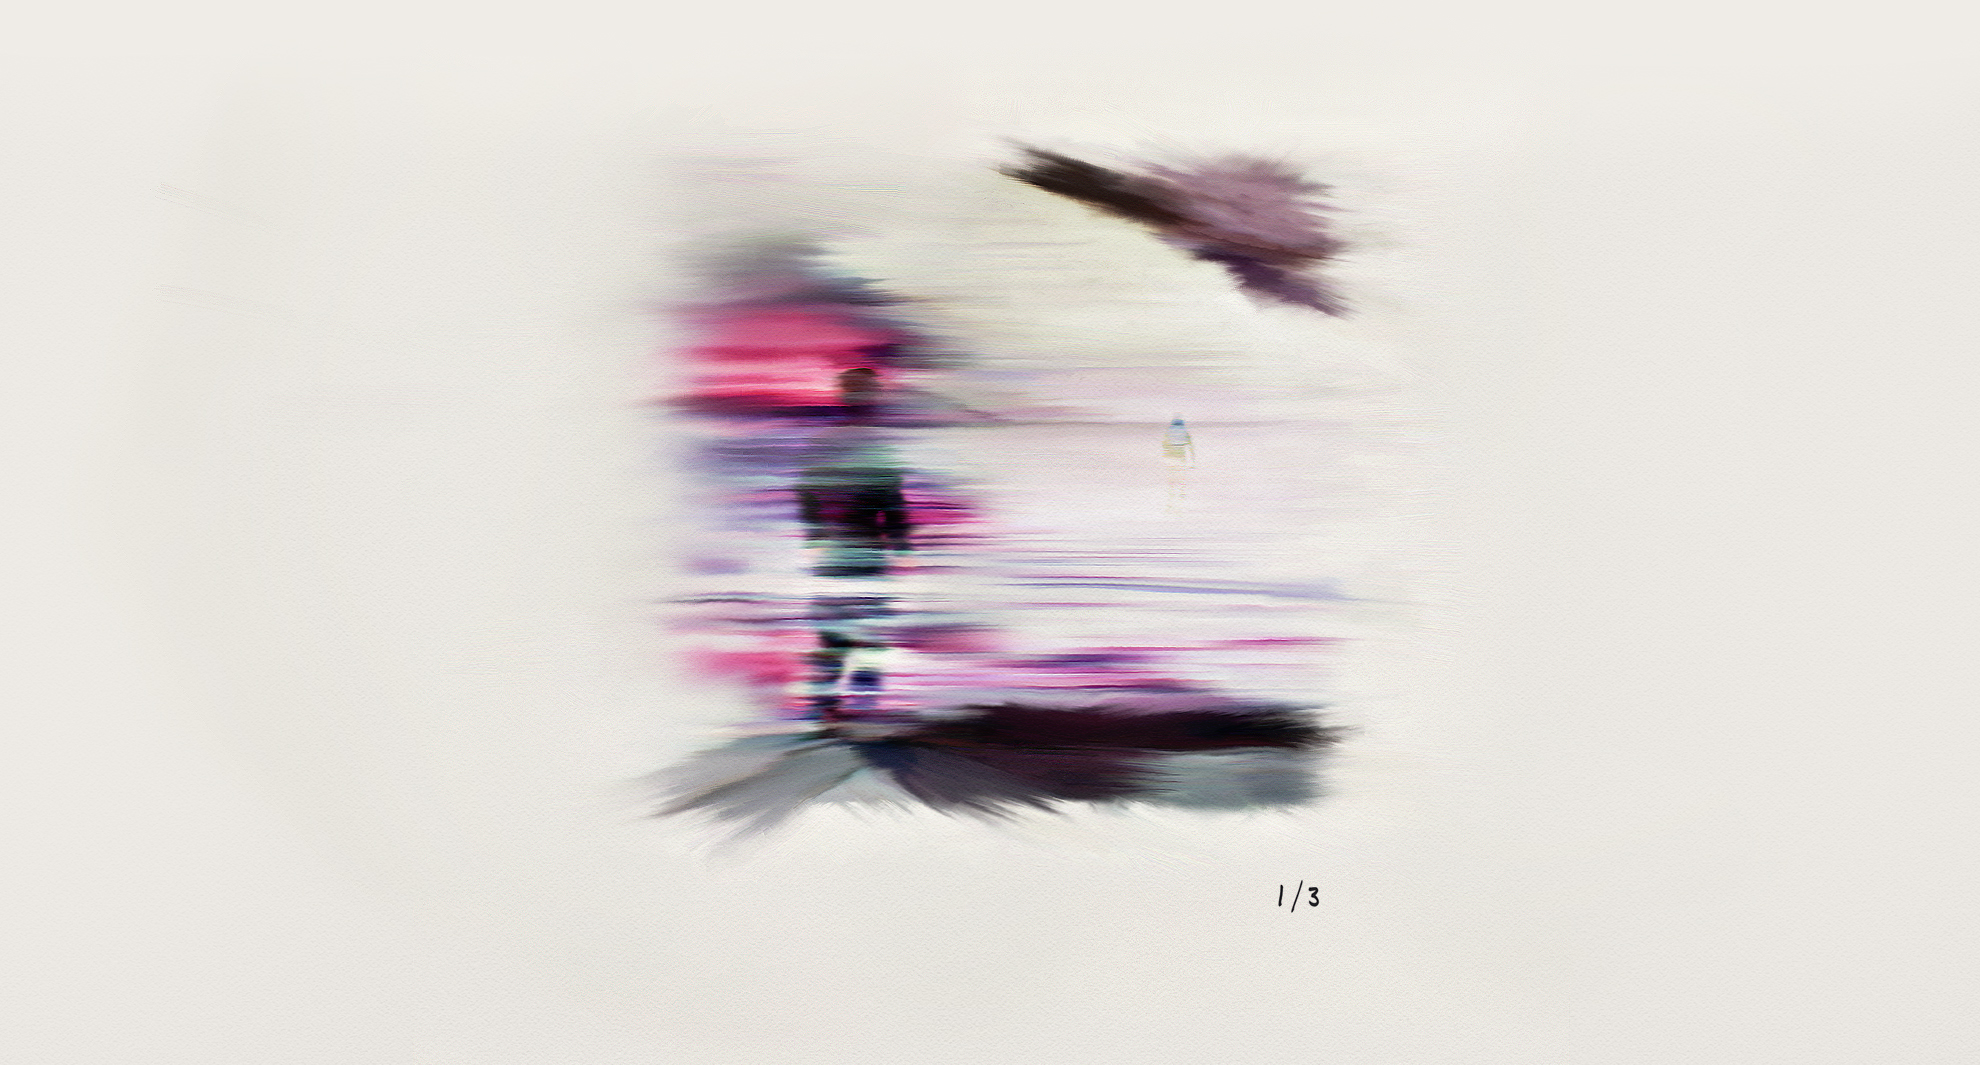
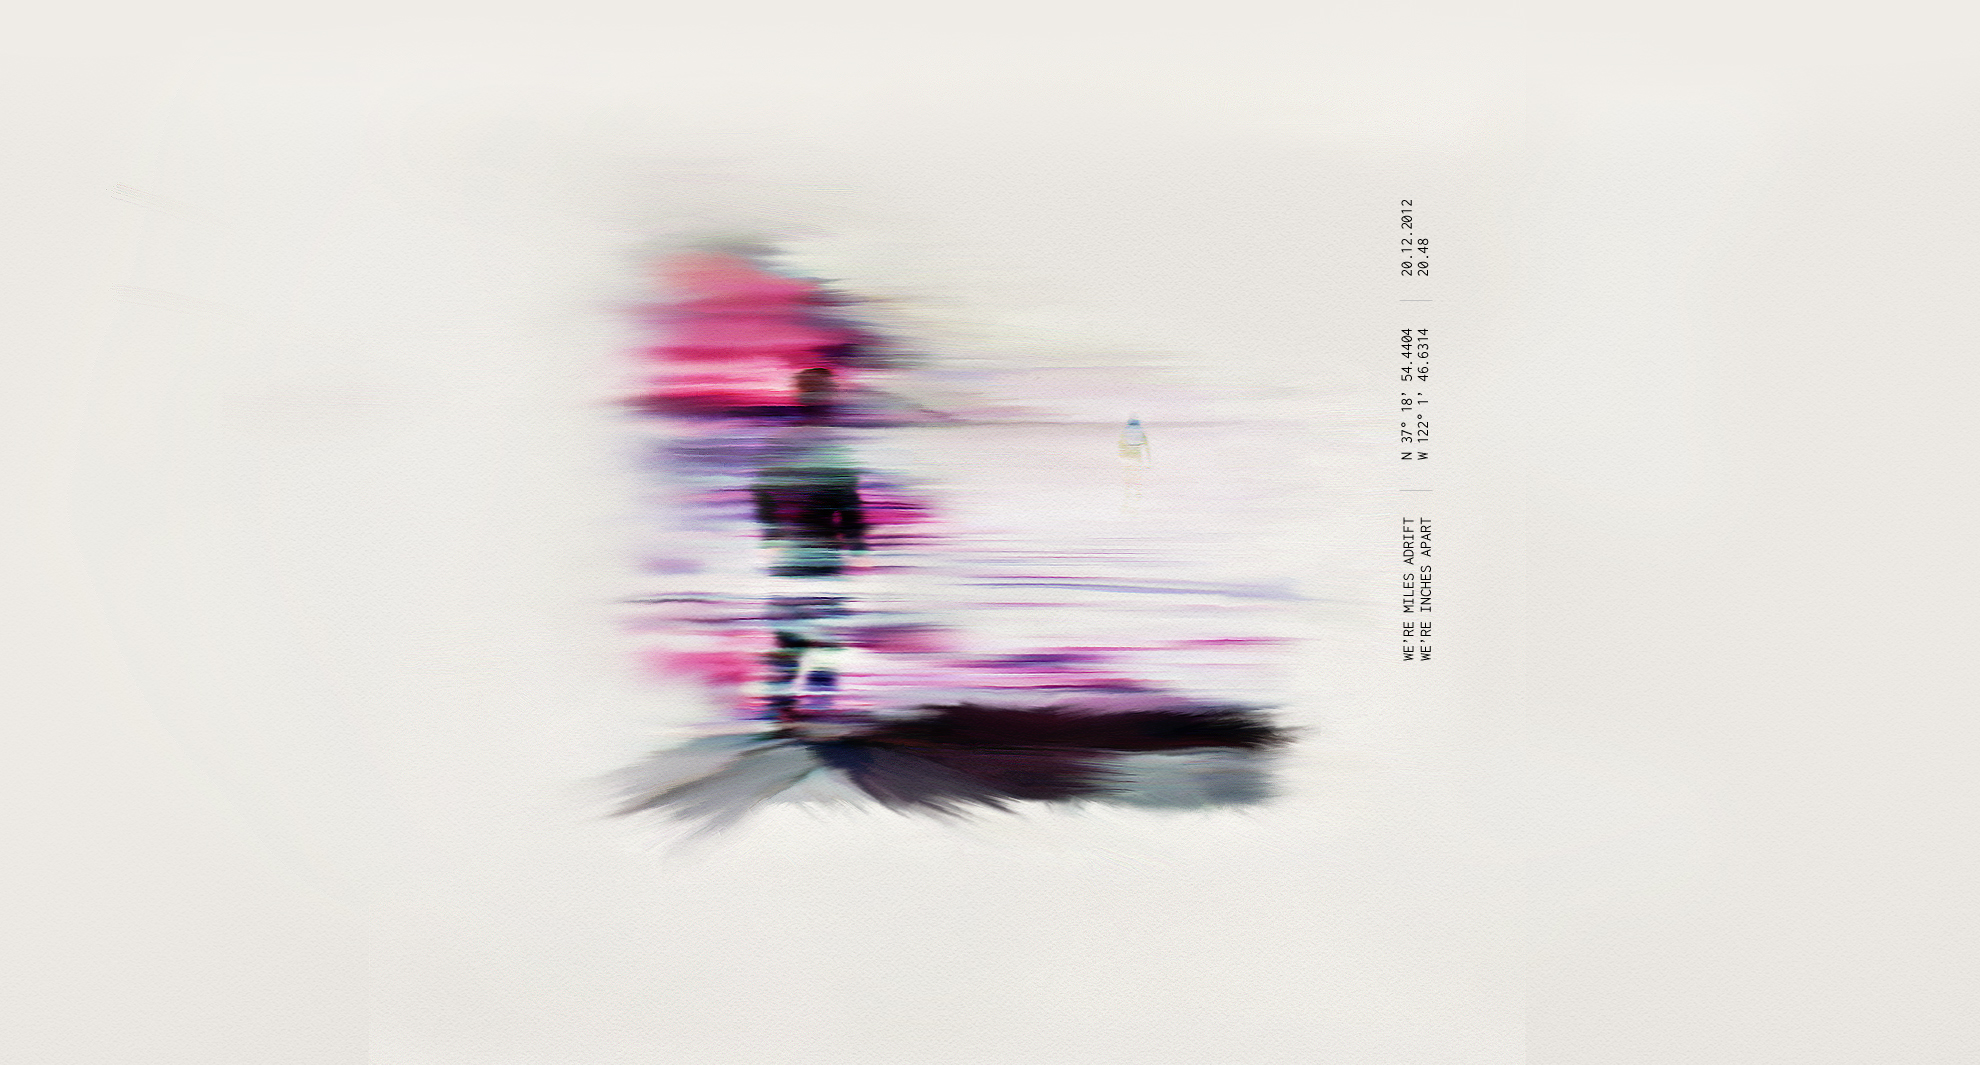
tweaks

diff --git a/_posts/2014-03-22-journeys.md b/_posts/2014-03-22-journeys.md
@@ -1,9 +1,9 @@
 ---
 layout: portfolio_entry
-title: Journeys
-subtitle: Brushed Scapes
+title: Memories
+subtitle: Trapped in Time
 project: journeys
-images: [{ src: 001.jpg, text: '#c9c9c9', background: '#efece7' }, { src: 002.jpg, text: '#c9c9c9', background: '#efece7' }, { src: 003.jpg, text: '#c9c9c9', background: '#efece7'}]
+images: [{ src: 001.jpg, text: '#000', background: '#efece7' }, { src: 002.jpg, text: '#000', background: '#efece7' }, { src: 003.jpg, text: '#000', background: '#efece7'}]
 ---
 Lorem ipsum dolor sit amet, consectetur adipiscing elit. Pellentesque facilisis leo risus. Ut lacinia lacinia tellus sit amet tincidunt.
 

diff --git a/_posts/2014-03-09-damaged_file.md b/_posts/2014-03-09-damaged_file.md
@@ -1,6 +1,6 @@
 ---
 layout: portfolio_entry
-title: Damaged File
+title: The Damaged File
 subtitle: We Are Pirates
 project: damaged_file
 images: [{ src: 001.jpg, text: '#ffffff', background: '#c4c5cb' }, { src: 002.jpg, text: '#ffffff', background: '#c4c5cb' }, { src: 003.jpg, text: '#ffffff', background: '#c4c5cb' }, { src: 004.jpg, text: '#ffffff', background: '#c4c5cb' }, { src: 005.jpg, text: '#c7cad0', background: '#f6f6f6' }, { src: 006.jpg, text: '#c7cad0', background: '#ffffff' }, { src: 007.jpg, text: '#c7cad0', background: '#f6f6f6' }]
